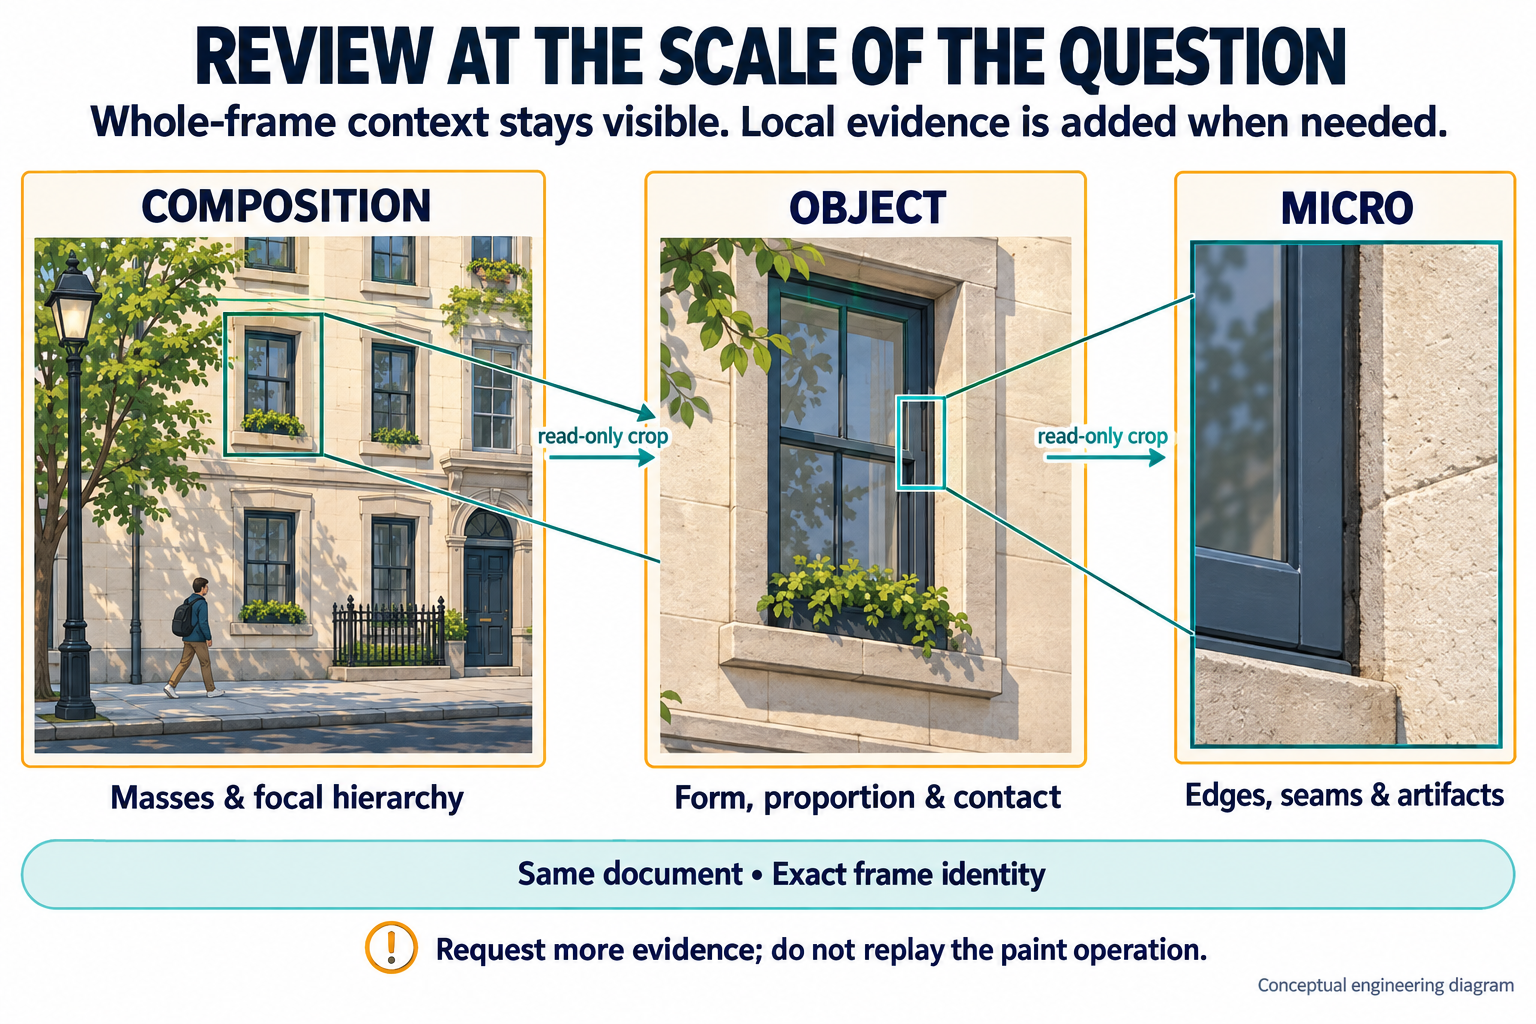
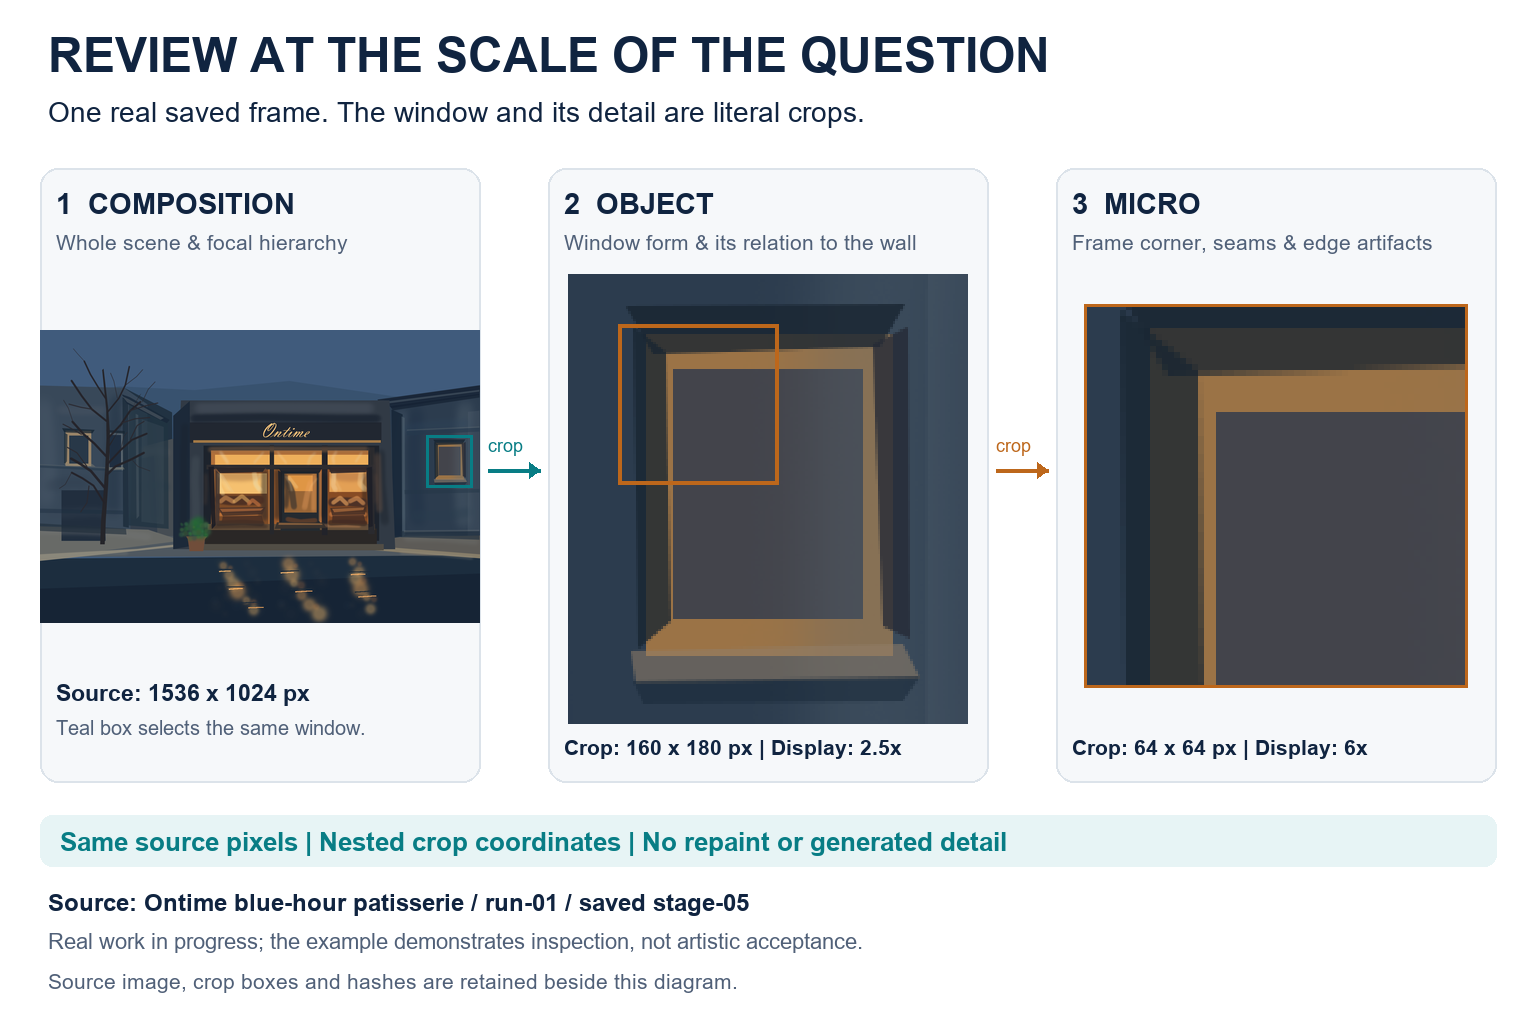
docs: replace generated window views with exact crops of a real process frame

diff --git a/assets/engineering/build-multiscale-diagram.py b/assets/engineering/build-multiscale-diagram.py
@@ -1,0 +1,91 @@
+"""Create a documentation plate from one real saved PaintPilot frame."""
+from pathlib import Path
+import hashlib
+import json
+from PIL import Image, ImageDraw, ImageFont
+
+HERE = Path(__file__).resolve().parent
+ASSETS = HERE
+SOURCE_REL = 'processes/ontime-blue-hour-patisserie-process/run-01/final/ontime-blue-hour-stage-05.png'
+SOURCE_NAME = 'multiscale-source-ontime-stage-05.png'
+OBJECT_BOX = (1350,370,1510,550)
+MICRO_BOX = (1370,390,1434,454)
+
+def digest(data):
+    return hashlib.sha256(data).hexdigest()
+
+def font(size, bold=False):
+    return ImageFont.truetype(str(Path('C:/Windows/Fonts') / ('arialbd.ttf' if bold else 'arial.ttf')), size)
+
+def build(assets=ASSETS, source=None):
+    assets = Path(assets)
+    assets.mkdir(parents=True,exist_ok=True)
+    source = Path(source) if source else assets / SOURCE_NAME
+    image = Image.open(source).convert('RGB')
+    assert image.size == (1536,1024)
+    obj = image.crop(OBJECT_BOX)
+    micro = image.crop(MICRO_BOX)
+    assert obj.crop((20,20,84,84)).tobytes() == micro.tobytes()
+    obj.save(assets/'multiscale-object-crop.png')
+    micro.save(assets/'multiscale-micro-crop.png')
+    canvas = Image.new('RGB',(1536,1024),'#ffffff')
+    d = ImageDraw.Draw(canvas)
+    navy, teal, amber, muted = '#102440','#087d85','#bd671b','#506078'
+    def text(x,y,value,size=24,color=navy,bold=False):
+        d.text((x,y),value,font=font(size,bold),fill=color)
+    text(48,28,'REVIEW AT THE SCALE OF THE QUESTION',48,bold=True)
+    text(48,96,'One real saved frame. The window and its detail are literal crops.',28)
+    xs = [40,548,1056]
+    labels = [('1  COMPOSITION','Whole scene & focal hierarchy'),('2  OBJECT','Window form & its relation to the wall'),('3  MICRO','Frame corner, seams & edge artifacts')]
+    for x,(heading,sub) in zip(xs,labels):
+        d.rounded_rectangle((x,168,x+440,782),radius=18,fill='#f6f8fa',outline='#dce3ea',width=2)
+        text(x+16,187,heading,29,bold=True)
+        text(x+16,230,sub,21,color=muted)
+    # Overview is resized for presentation; the native source is retained unchanged.
+    overview = image.resize((440,293),Image.Resampling.LANCZOS)
+    canvas.paste(overview,(40,330))
+    def rectangle_on_overview(box,color):
+        x0,y0,x1,y1=box
+        coords=(40+x0*440/1536,330+y0*293/1024,40+x1*440/1536,330+y1*293/1024)
+        d.rectangle(coords,outline=color,width=3)
+    rectangle_on_overview(OBJECT_BOX,teal)
+    # Nearest-neighbour enlargement preserves visible source pixels; no synthesis.
+    canvas.paste(obj.resize((400,450),Image.Resampling.NEAREST),(568,274))
+    d.rectangle((568+20*2.5,274+20*2.5,568+84*2.5,274+84*2.5),outline=amber,width=4)
+    canvas.paste(micro.resize((384,384),Image.Resampling.NEAREST),(1084,304))
+    d.rectangle((1084,304,1467,687),outline=amber,width=3)
+    for start,end,label,color in [(488,540,'crop',teal),(996,1048,'crop',amber)]:
+        d.line((start,470,end,470),fill=color,width=4)
+        d.polygon([(end,470),(end-11,462),(end-11,478)],fill=color)
+        text(start,435,label,18,color=color)
+    text(56,680,'Source: 1536 x 1024 px',23,bold=True)
+    text(56,716,'Teal box selects the same window.',20,color=muted)
+    text(564,735,'Crop: 160 x 180 px | Display: 2.5x',21,bold=True)
+    text(1072,735,'Crop: 64 x 64 px | Display: 6x',21,bold=True)
+    d.rounded_rectangle((40,815,1496,866),radius=12,fill='#e7f4f5')
+    text(60,827,'Same source pixels | Nested crop coordinates | No repaint or generated detail',26,color=teal,bold=True)
+    text(48,889,'Source: Ontime blue-hour patisserie / run-01 / saved stage-05',24,bold=True)
+    text(48,929,'Real work in progress; the example demonstrates inspection, not artistic acceptance.',22,color=muted)
+    text(48,969,'Source image, crop boxes and hashes are retained beside this diagram.',21,color=muted)
+    canvas.save(assets/'adaptive-multiscale-verification.png')
+    provenance = {
+        'date':'2026-10-11','method':'Deterministic Pillow crop and layout; no image generation',
+        'source_project_path':SOURCE_REL,'source_asset':SOURCE_NAME,
+        'source_dimensions':list(image.size),'source_file_sha256':digest(source.read_bytes()),
+        'source_decoded_rgb_sha256':digest(image.tobytes()),
+        'coordinates':'[left, top, right, bottom], source pixels; right/bottom exclusive',
+        'object':{'box':list(OBJECT_BOX),'asset':'multiscale-object-crop.png','dimensions':list(obj.size),'decoded_rgb_sha256':digest(obj.tobytes()),'presentation_scale':2.5},
+        'micro':{'box':list(MICRO_BOX),'box_in_object':[20,20,84,84],'asset':'multiscale-micro-crop.png','dimensions':list(micro.size),'decoded_rgb_sha256':digest(micro.tobytes()),'presentation_scale':6},
+        'presentation':{'overview_resize':'Lanczos','crop_enlargement':'nearest neighbour','rectangles':'presentation overlays only'},
+        'limits':'A saved process frame, not a fabricated Guard receipt or proof of artistic acceptance.',
+        'files':{}
+    }
+    for name in ['adaptive-multiscale-verification.png',SOURCE_NAME,'multiscale-object-crop.png','multiscale-micro-crop.png']:
+        provenance['files'][name]=digest((assets/name).read_bytes())
+    (assets/'multiscale-provenance.json').write_text(json.dumps(provenance,indent=2)+'\n',encoding='utf-8')
+    return provenance
+
+if __name__ == '__main__':
+    import sys
+    result=build(sys.argv[1] if len(sys.argv)>1 else ASSETS)
+    print(json.dumps({'source_sha256':result['source_file_sha256'],'object':result['object']['box'],'micro':result['micro']['box'],'diagram_sha256':result['files']['adaptive-multiscale-verification.png']}))

diff --git a/assets/engineering/README.md b/assets/engineering/README.md
@@ -1,15 +1,16 @@
 # Engineering illustrations
 
-These four conceptual diagrams were generated with the built-in imagegen tool on
-2026-10-11 for the English and Russian root README pages. Both pages deliberately
-reference the same English-labelled PNG files. They illustrate the architecture;
-they are not Photoshop-generated artwork, screenshots, benchmarks or live acceptance
-evidence. The graphics do not replace the linked engineering contracts and their limits.
+These four engineering illustrations support the English and Russian root README
+pages, which reference the same English-labelled PNG files. Three are conceptual
+imagegen diagrams. Adaptive multiscale verification uses one real saved Photoshop
+process frame and two literal crops, assembled deterministically on 2026-10-11.
+None is a benchmark or proof of live artistic acceptance. The illustrations do not
+replace the linked engineering contracts and their limits.
 
 | Image | Mechanism | Engineering reference |
 | --- | --- | --- |
 | [Authored geometry and editable components](geometry-and-editable-components.png) | Authored landmarks/constraints, numerical solving and separately owned raster parts | [Object construction](../../docs/object-construction.md), [painterly strokes](../../docs/painterly-strokes.md) |
-| [Adaptive multiscale verification](adaptive-multiscale-verification.png) | Whole-frame context and read-only object/micro crops of registered evidence | [Visual evaluation](../../docs/visual-evaluation.md) |
+| [Adaptive multiscale verification](adaptive-multiscale-verification.png) | Real saved process frame with exact nested object/micro crops | [Visual evaluation](../../docs/visual-evaluation.md) |
 | [Bounded artistic autonomy](bounded-artistic-autonomy.png) | Same-conversation roles; Painter → Guard → UXP → Photoshop; pixel-review feedback | [Architecture](../../docs/architecture.md), [artistic review](../../docs/artistic-evaluator.md) |
 | [Evidence-bound recovery](evidence-bound-recovery.png) | Journal/state/preview reconciliation before a new authorized mutation | [Architecture](../../docs/architecture.md) |
 
@@ -29,3 +30,20 @@ are not an exhaustive decomposition or a Photoshop screenshot.
 
 Existing library/algorithm attribution remains in
 [THIRD_PARTY_NOTICES.md](../../THIRD_PARTY_NOTICES.md).
+
+## Real-frame multiscale example
+
+The source is [Ontime stage-05](multiscale-source-ontime-stage-05.png), copied byte
+for byte from `processes/ontime-blue-hour-patisserie-process/run-01/final/ontime-blue-hour-stage-05.png`.
+The [window crop](multiscale-object-crop.png) is `[1350, 370, 1510, 550]`;
+the [corner crop](multiscale-micro-crop.png) is `[1370, 390, 1434, 454]` in source
+pixels, with exclusive right/bottom coordinates. The latter is also exactly
+`[20, 20, 84, 84]` within the window crop. This is work in progress, not a polished
+success example or a claim that a Guard review ran on these rectangles.
+
+The overview is resized for display. Native crops are enlarged by nearest
+neighbour; crop boxes are presentation overlays. No source content, viewpoint,
+lighting or detail is regenerated. See [provenance and hashes](multiscale-provenance.json).
+Rebuild with `python assets/engineering/build-multiscale-diagram.py` (Pillow and
+Windows Arial fonts). The original imagegen version was replaced because its
+three scenes depicted different windows rather than crops of one image.

diff --git a/README.ru.md b/README.ru.md
@@ -77,9 +77,9 @@ flowchart LR
 
 ### 3. Визуальное подтверждение зависит от масштаба вопроса
 
-![Кадр целиком, объект и микродеталь одного зарегистрированного изображения](assets/engineering/adaptive-multiscale-verification.png)
+![Реальный сохранённый кадр Ontime и точные вложенные кропы окна](assets/engineering/adaptive-multiscale-verification.png)
 
-*Концептуальная схема: дополнительные фрагменты дают информацию без повторного исполнения рисующей операции.*
+*Реальный сохранённый кадр прогона Ontime и два точных вложенных кропа. Исходные пиксели, координаты и хеши [сохранены рядом с иллюстрацией](assets/engineering/multiscale-provenance.json); содержимое сцены не перегенерировано.*
 
 Композицию нельзя надёжно оценивать по маленькому фрагменту. Шов, ореол или дефект края трудно увидеть на уменьшенном изображении всей картины.
 

diff --git a/README.md b/README.md
@@ -91,9 +91,9 @@ one opaque one-shot render. Three research ideas currently shape the painting ar
 
 ### Adaptive Multiscale Visual Verification
 
-![Whole-frame composition, object focus and micro-detail evidence from the same registered frame](assets/engineering/adaptive-multiscale-verification.png)
+![Whole frame and exact nested window crops from one real saved Ontime process image](assets/engineering/adaptive-multiscale-verification.png)
 
-*Conceptual diagram: additional crops provide evidence without executing the paint operation again.*
+*Real saved Ontime process frame with two exact nested crops. Source pixels, coordinates and hashes are [retained with the illustration](assets/engineering/multiscale-provenance.json); no scene content was regenerated.*
 
 A single screenshot is not equally useful for every visual decision. Composition, object structure,
 and micro-detail require different observational scales, so the Guard selects a minimum review level:
